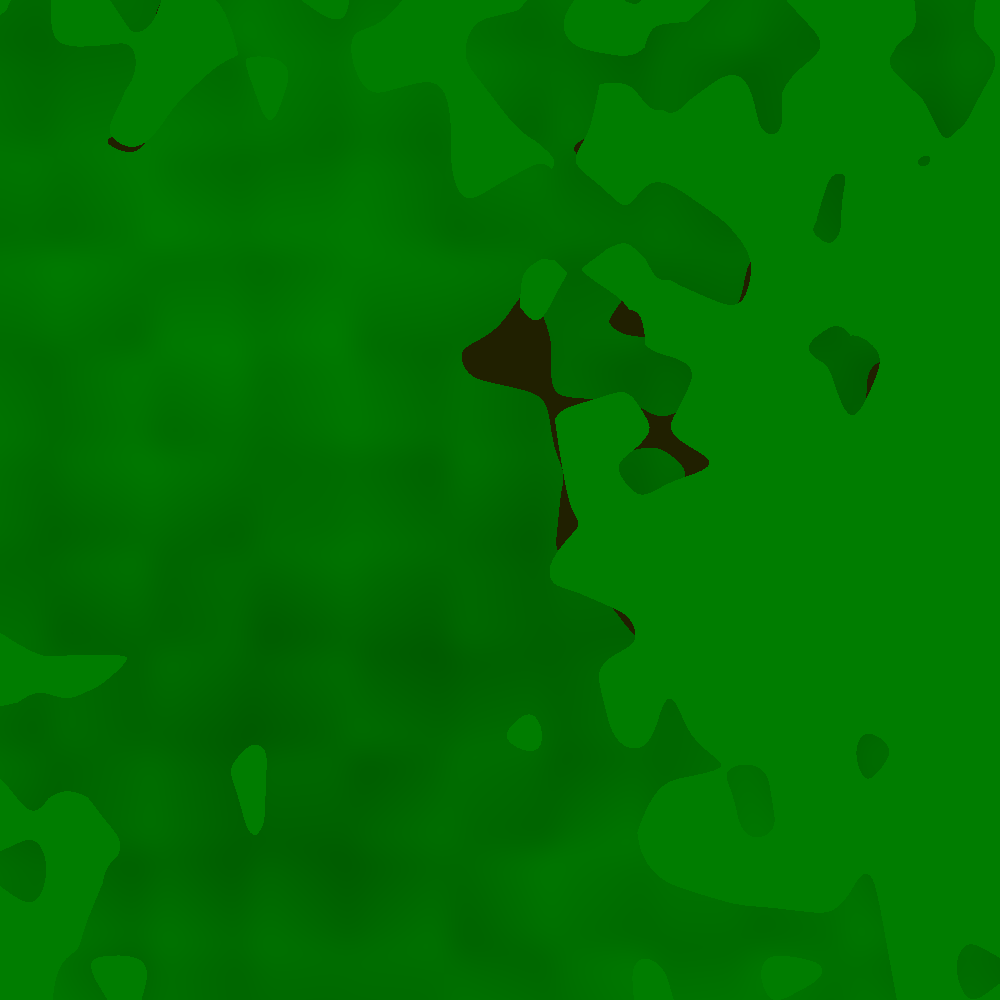
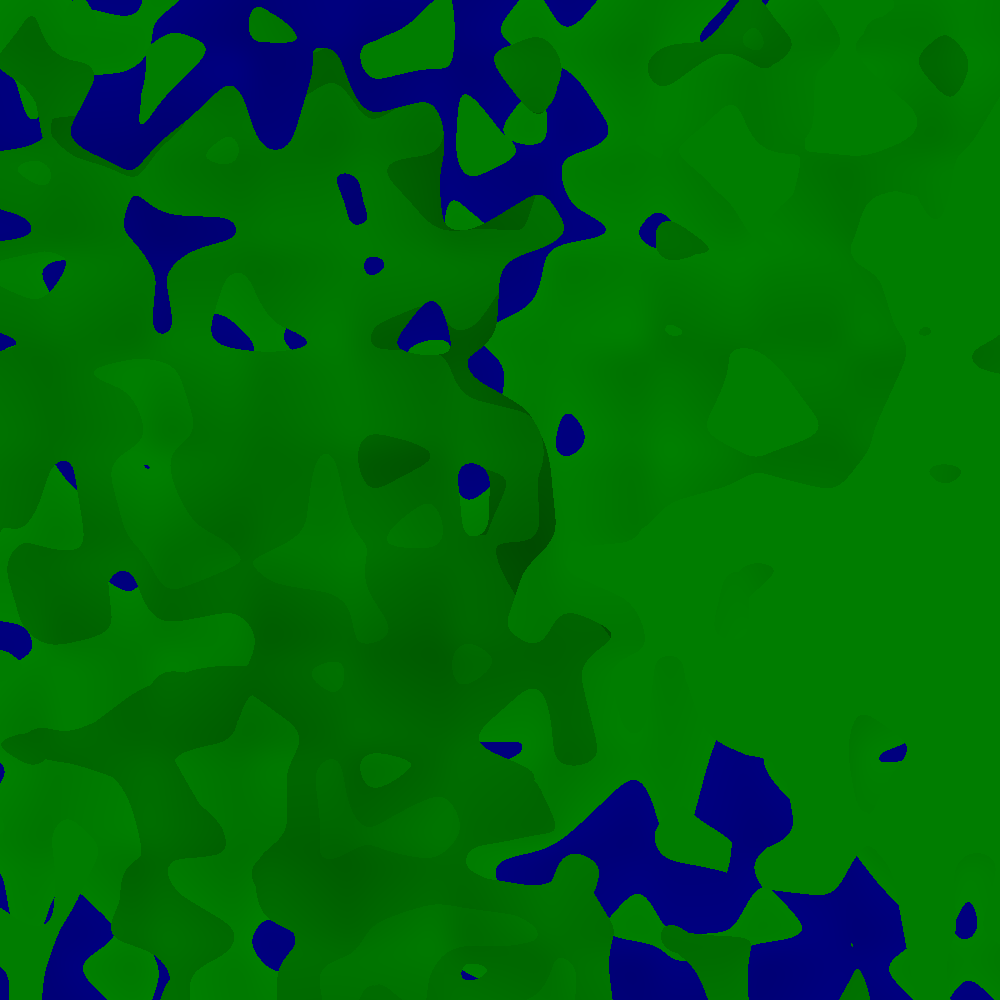
testing

diff --git a/lib/src/test/java/procedural_generation/Biomes1Test.java b/lib/src/test/java/procedural_generation/Biomes1Test.java
@@ -114,15 +114,31 @@ public class Biomes1Test {
 
         // generate an image of the biomes (color)
         BufferedImage biomeImage = new BufferedImage(width, high, BufferedImage.TYPE_INT_RGB);
+        BufferedImage biomeMontagne = new BufferedImage(width, high, BufferedImage.TYPE_INT_RGB);
+        BufferedImage biomePlaine = new BufferedImage(width, high, BufferedImage.TYPE_INT_RGB);
+        BufferedImage biomeDesert = new BufferedImage(width, high, BufferedImage.TYPE_INT_RGB);
         for (int x = 0; x < width; x++) {
             for (int y = 0; y < high; y++) {
                 HashMap<ClimatRule, Double> values = biomesManager.getClimatRuleDoubleHashMap(x, y, 0.0);
-                int blue = (int) ((montagne.pourcent(x, y, 0.0, values, complexNoise)) * 255);
-                int green = (int) ((plaine.pourcent(x, y, 0.0, values, complexNoise)) * 255);
-                int red = (int) ((desert.pourcent(x, y, 0.0, values, complexNoise)) * 255);
+                HashMap<Biome, Double> biomeValues = biomesManager.getBiomes(x, y, 0.0);
+                // get values
+                Double montagneValue = biomeValues.get(montagne);
+                Double plaineValue = biomeValues.get(plaine);
+                Double desertValue = biomeValues.get(desert);
+                int blue = montagneValue != null ? (int) (montagneValue * 255) : 0;
+                int green = plaineValue != null ? (int) (plaineValue * 255) : 0;
+                int red = desertValue != null ? (int) (desertValue * 255) : 0;
+                try {
+                    biomeMontagne.setRGB(x, y, (new Color(0, 0, blue)).getRGB());
+                    biomePlaine.setRGB(x, y, (new Color(0, green, 0)).getRGB());
+                    biomeDesert.setRGB(x, y, (new Color(red, 0, 0)).getRGB());
+                } catch (Exception ignored) {
+
+                }
                 // only keep the max
-                int max = Math.max(Math.max(Math.max(red, green), blue), 190);
-                if (max != 190) {
+                int base = 185;
+                int max = Math.max(Math.max(Math.max(red, green), blue), base);
+                if (max != base) {
                     red = max == red ? red : 0;
                     green = max == green ? green : 0;
                     blue = max == blue ? blue : 0;
@@ -138,6 +154,9 @@ public class Biomes1Test {
         // save the image
         try {
             javax.imageio.ImageIO.write(biomeImage, "png", new java.io.File("biome1.png"));
+            javax.imageio.ImageIO.write(biomeMontagne, "png", new java.io.File("biomeMontagne1.png"));
+            javax.imageio.ImageIO.write(biomePlaine, "png", new java.io.File("biomePlaine1.png"));
+            javax.imageio.ImageIO.write(biomeDesert, "png", new java.io.File("biomeDesert1.png"));
         } catch (java.io.IOException e) {
             e.printStackTrace();
         }

diff --git a/lib/src/main/java/procedural_generation/biomes/BiomesManager.java b/lib/src/main/java/procedural_generation/biomes/BiomesManager.java
@@ -47,13 +47,13 @@ public class BiomesManager {
      * @param currentAltitude the altitude of the current point
      * @return A HashMap of Biome and Double.
      */
-    public HashMap<Biome, Double> getBiome(double x, double y, double currentAltitude) {
+    public HashMap<Biome, Double> getBiomes(double x, double y, double currentAltitude) {
         HashMap<Biome, Double> biomePourcent = new HashMap<>();
         HashMap<ClimatRule, Double> climatPourcent = getClimatRuleDoubleHashMap(x, y, currentAltitude);
         double sum = 0;
         for (Biome biome : biomes) {
             double pourcent = biome.pourcent(x, y, currentAltitude, climatPourcent, altitude);
-            if (pourcent > 0.8) {
+            if (pourcent > 0.73) {
                 biomePourcent.clear();
                 biomePourcent.put(biome, pourcent);
                 return biomePourcent;
@@ -98,10 +98,10 @@ public class BiomesManager {
      */
     public double getFinalAltitude(double x, double y) {
         double currentAltitude = altitude.getValue(x, y);
-        HashMap<Biome, Double> biomePourcent = getBiome(x, y, currentAltitude);
+        HashMap<Biome, Double> biomePourcent = getBiomes(x, y, currentAltitude);
         // select the biome with the highest pourcent
         Biome biome0 = null;
-        double biomePourcentValue = 0.5;
+        double biomePourcentValue = 0.85;
         for (Biome biome1 : biomePourcent.keySet()) {
             if (biomePourcent.get(biome1) > biomePourcentValue) {
                 biomePourcentValue = biomePourcent.get(biome1);
